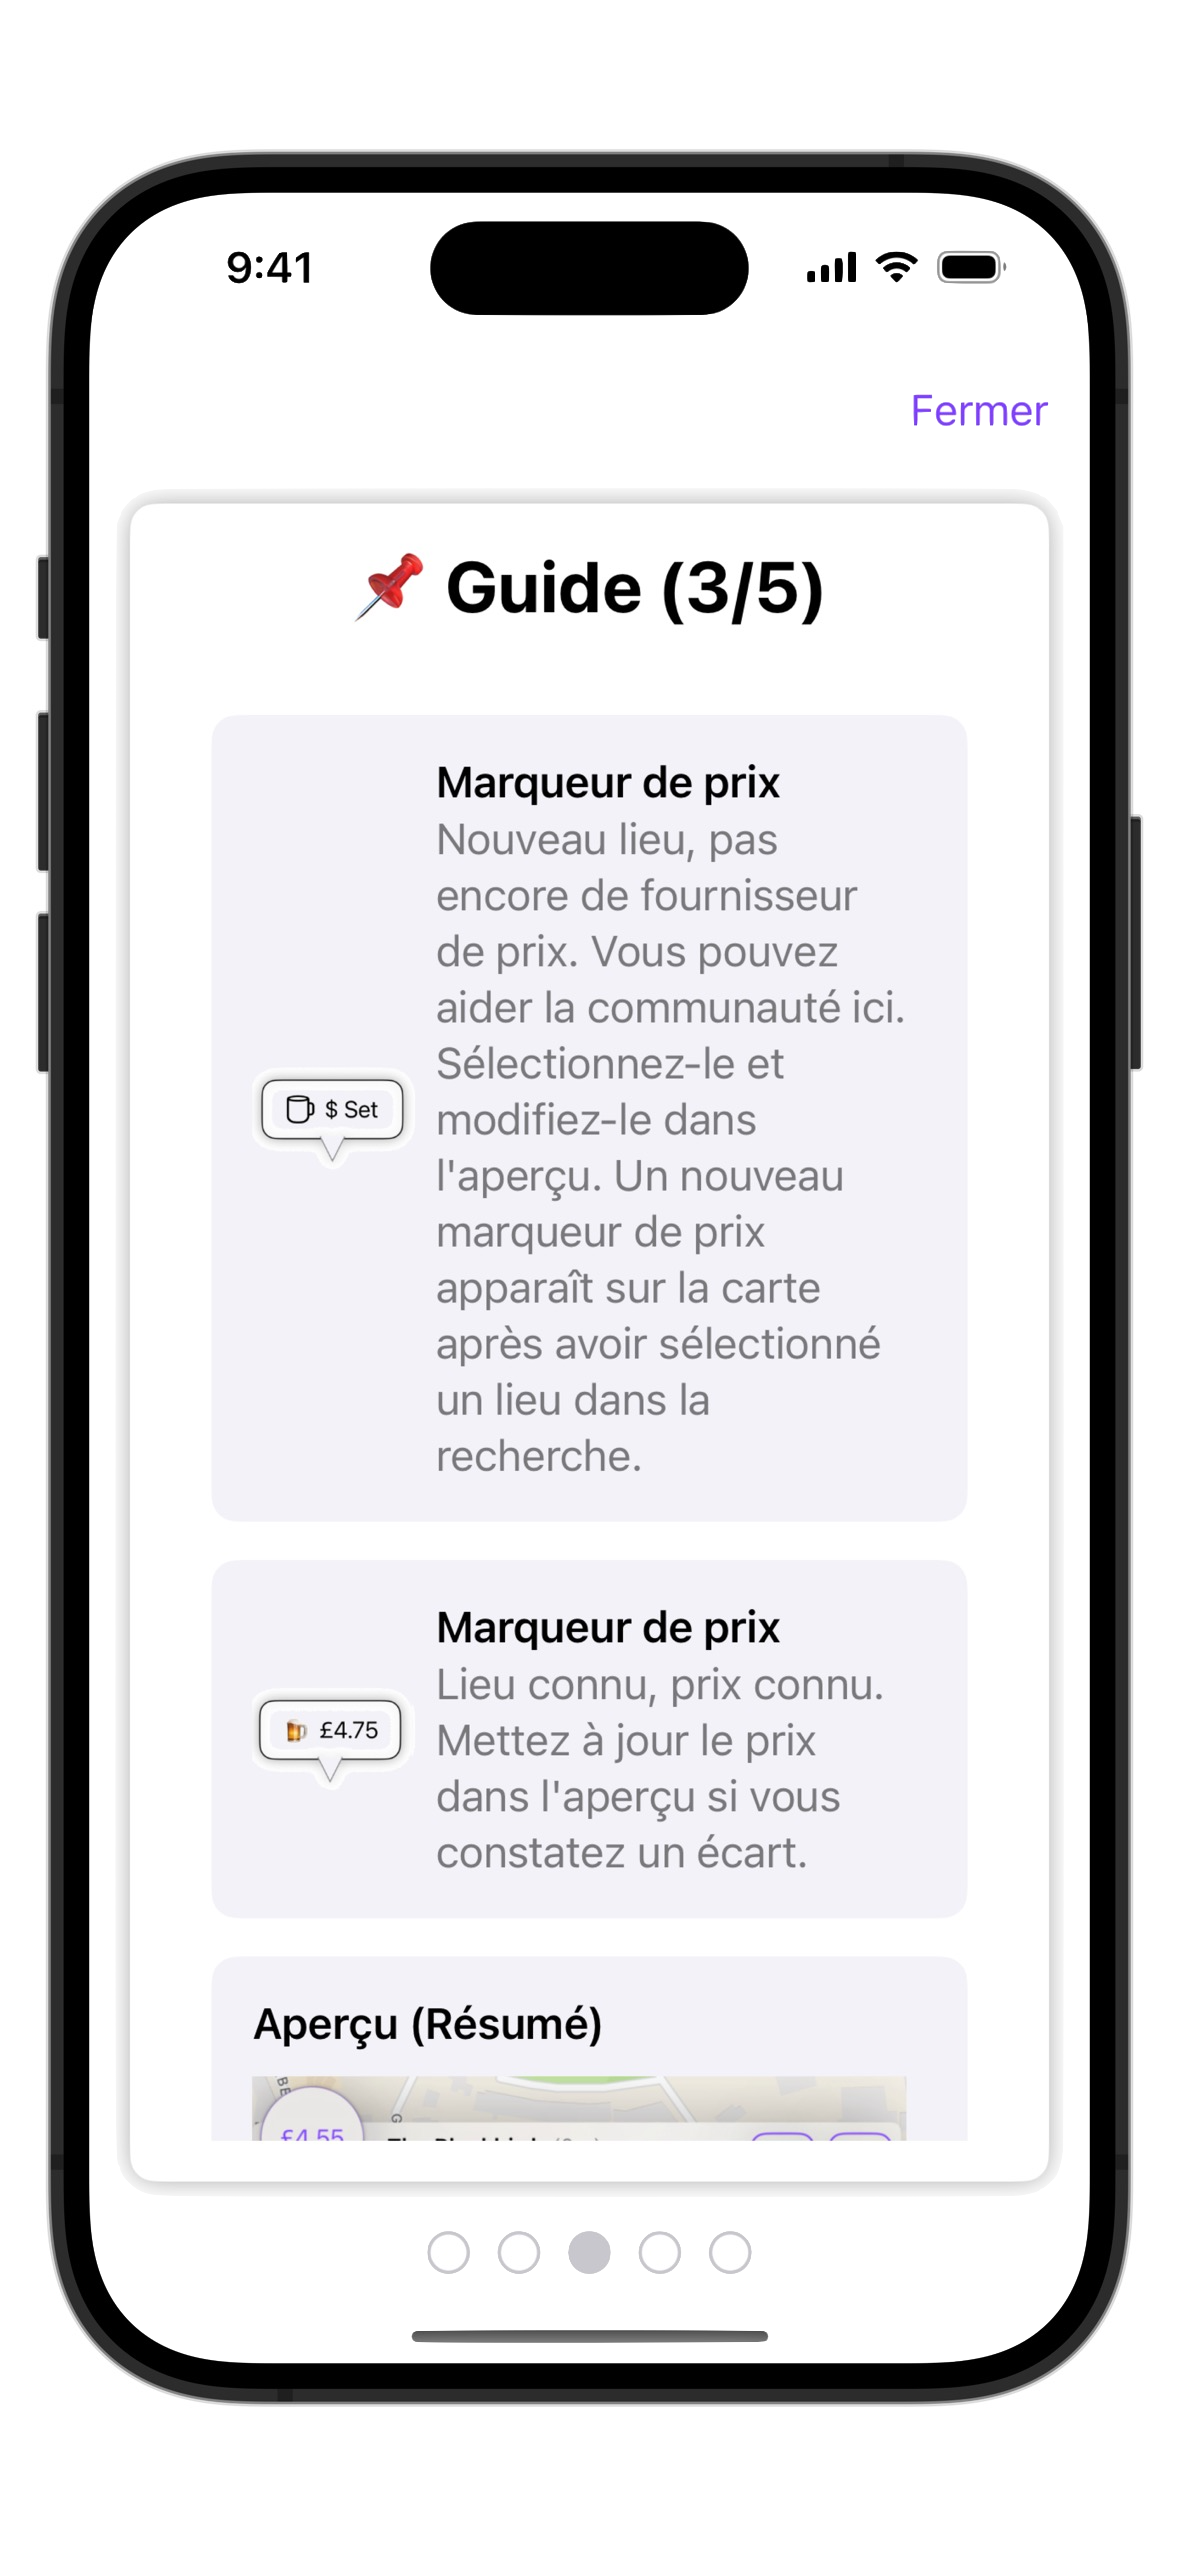
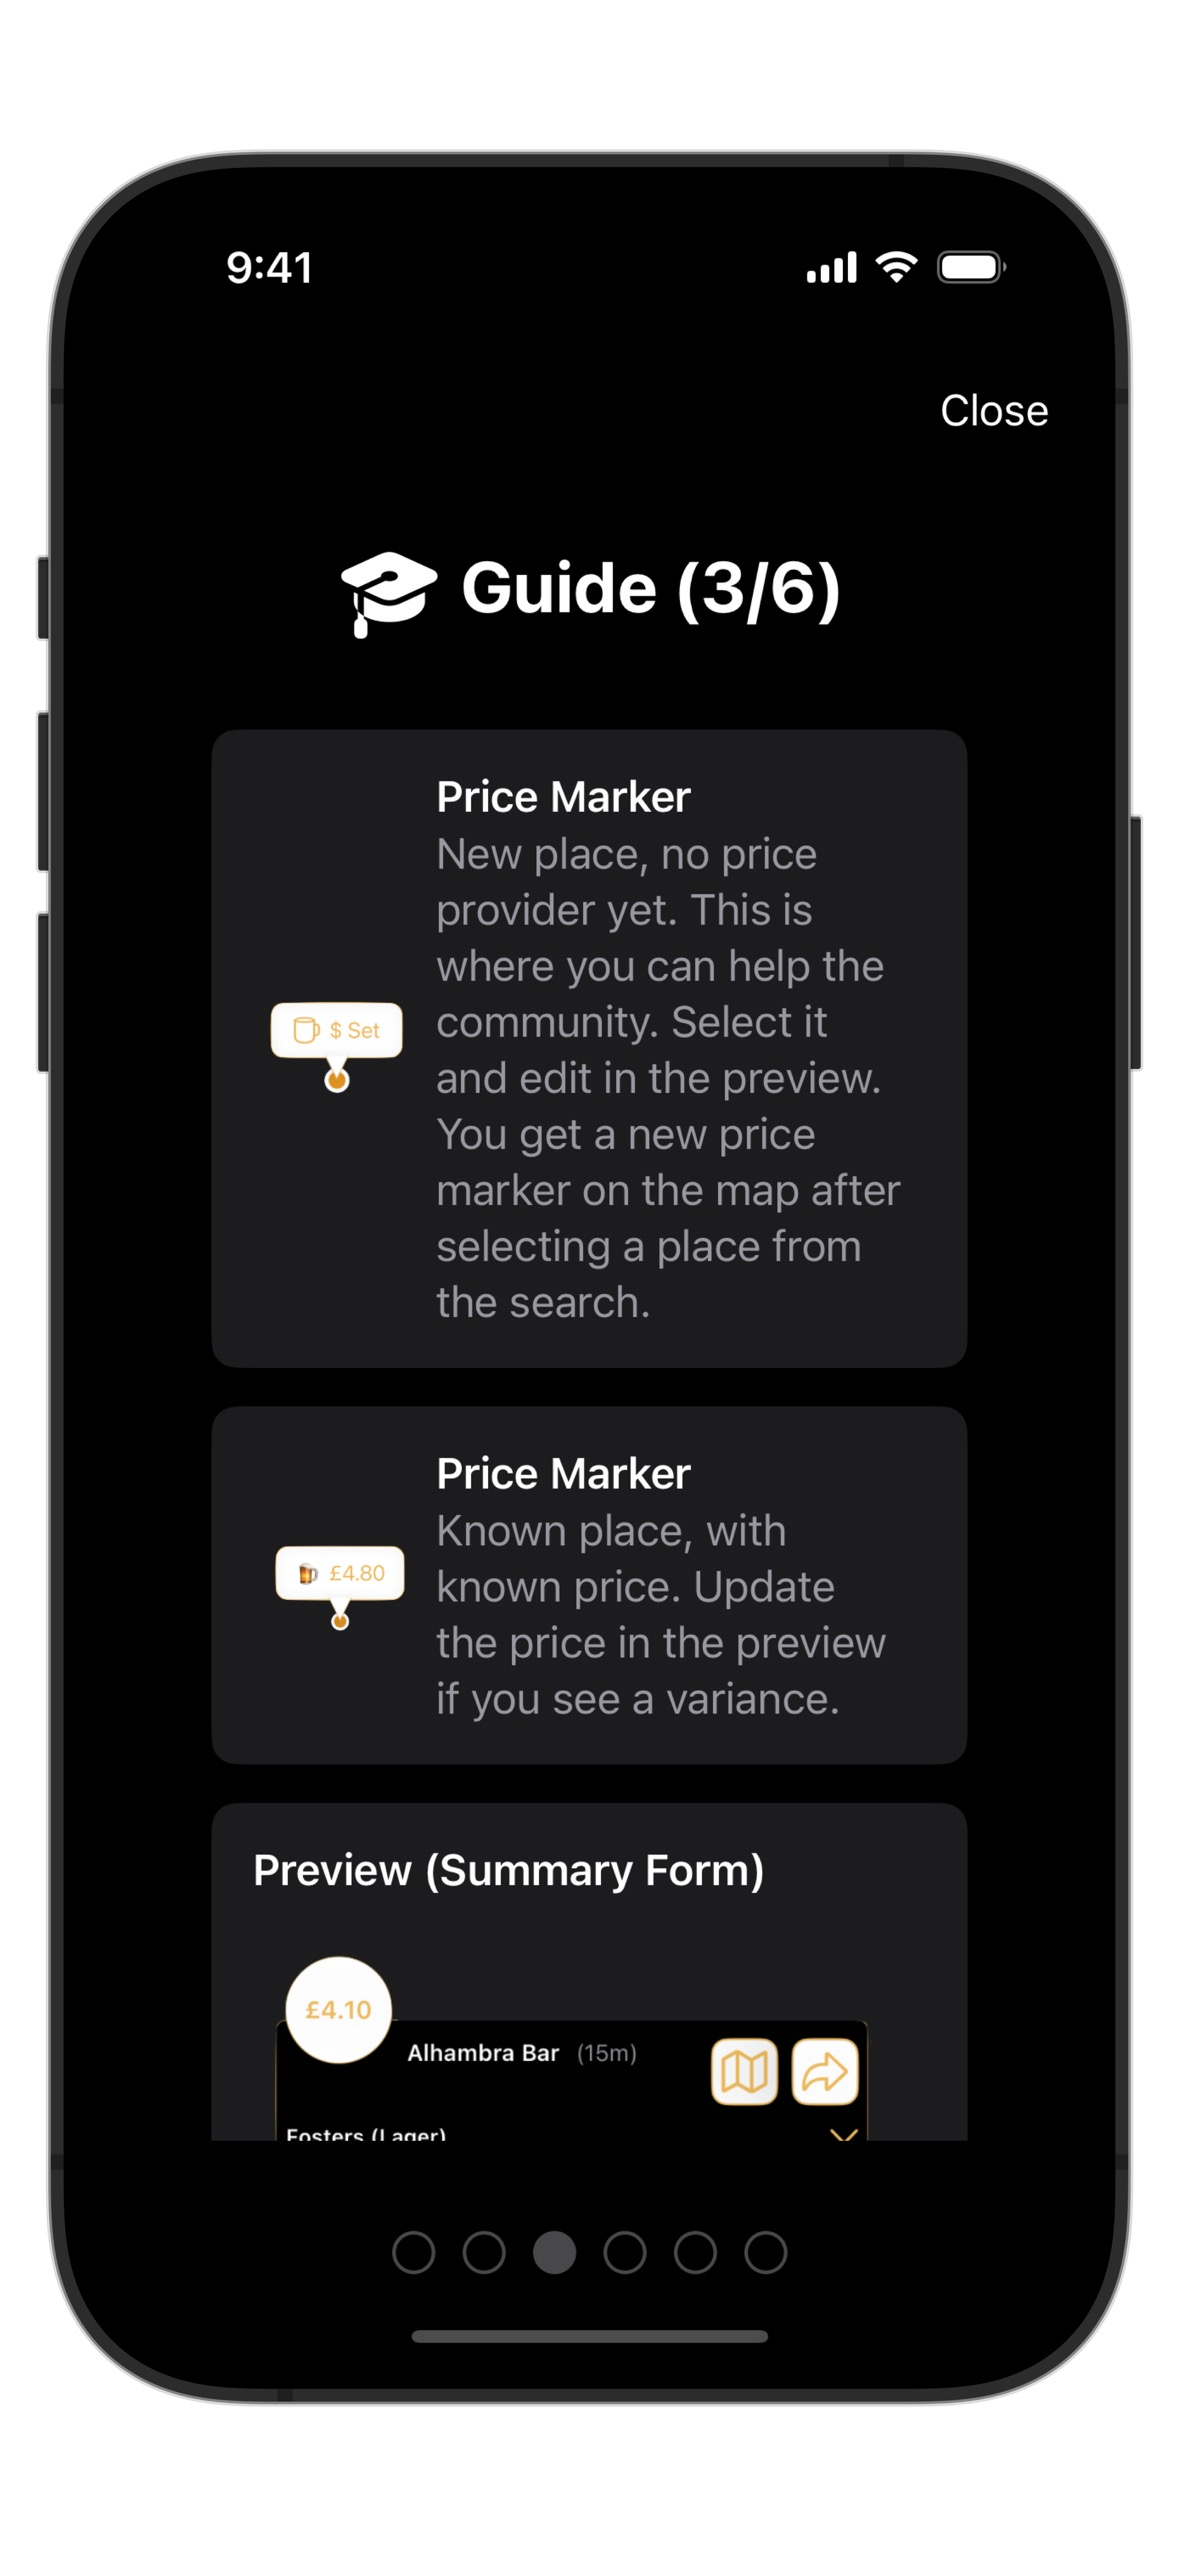
[Feature] Update Guide Images

diff --git a/public/fr-fr/faq/index.html b/public/fr-fr/faq/index.html
@@ -208,6 +208,10 @@ Qui peut accéder au programme bêta ? Tout le monde peut y accéder. Nous nous
     <a href="/images/WelcomeView_Page5.png" target="_blank">
             <img src="/images/WelcomeView_Page5.png" alt="Guide Page 5" class="guide-page">
     </a>
+    <a href="/images/WelcomeView_Page6.png" target="_blank">
+            <img src="/images/WelcomeView_Page6.png" alt="Guide Page 6" class="guide-page">
+    </a>
+
 </p></p>
 <h3 id="quand-le-système-dexploitation-android-sera-t-il-pris-en-charge">Quand le système d&rsquo;exploitation Android sera-t-il pris en charge ?</h3>
 <p>Nous ne le savons pas encore. Nous allons d&rsquo;abord nous concentrer sur l&rsquo;optimisation de l&rsquo;application pour la plateforme Apple avant de l&rsquo;étendre aux autres plateformes.</p>

diff --git a/public/en-gb/faq/index.html b/public/en-gb/faq/index.html
@@ -209,6 +209,10 @@ Who can have access to the Beta Program? We are welcoming feedback from everyone
     <a href="/images/WelcomeView_Page5.png" target="_blank">
             <img src="/images/WelcomeView_Page5.png" alt="Guide Page 5" class="guide-page">
     </a>
+    <a href="/images/WelcomeView_Page6.png" target="_blank">
+            <img src="/images/WelcomeView_Page6.png" alt="Guide Page 6" class="guide-page">
+    </a>
+
 </p></p>
 <h3 id="when-will-android-os-be-supported">When will Android OS be supported?</h3>
 <p>At this time we are focussing our efforts on improving the experience on Apple platforms. Once we are satisfied with the user-experience on these platforms we will start looking at migrating it onto Android. We appreciate your patience.</p>

diff --git a/public/faq/index.html b/public/faq/index.html
@@ -209,6 +209,10 @@ Who can have access to the Beta Program? Anyone can have access. We reserve the 
     <a href="/images/WelcomeView_Page5.png" target="_blank">
             <img src="/images/WelcomeView_Page5.png" alt="Guide Page 5" class="guide-page">
     </a>
+    <a href="/images/WelcomeView_Page6.png" target="_blank">
+            <img src="/images/WelcomeView_Page6.png" alt="Guide Page 6" class="guide-page">
+    </a>
+
 </p></p>
 <h3 id="when-will-android-os-be-supported">When will Android OS be supported?</h3>
 <p>This is not known at this time, what is known is that we will first focus on making the Apple platform application awesome before we extend to other platforms.</p>

diff --git a/layouts/shortcodes/welcome-guide.html b/layouts/shortcodes/welcome-guide.html
@@ -22,4 +22,8 @@
     <a href="/images/WelcomeView_Page5.png" target="_blank">
             <img src="/images/WelcomeView_Page5.png" alt="Guide Page 5" class="guide-page">
     </a>
+    <a href="/images/WelcomeView_Page6.png" target="_blank">
+            <img src="/images/WelcomeView_Page6.png" alt="Guide Page 6" class="guide-page">
+    </a>
+
 </p>
